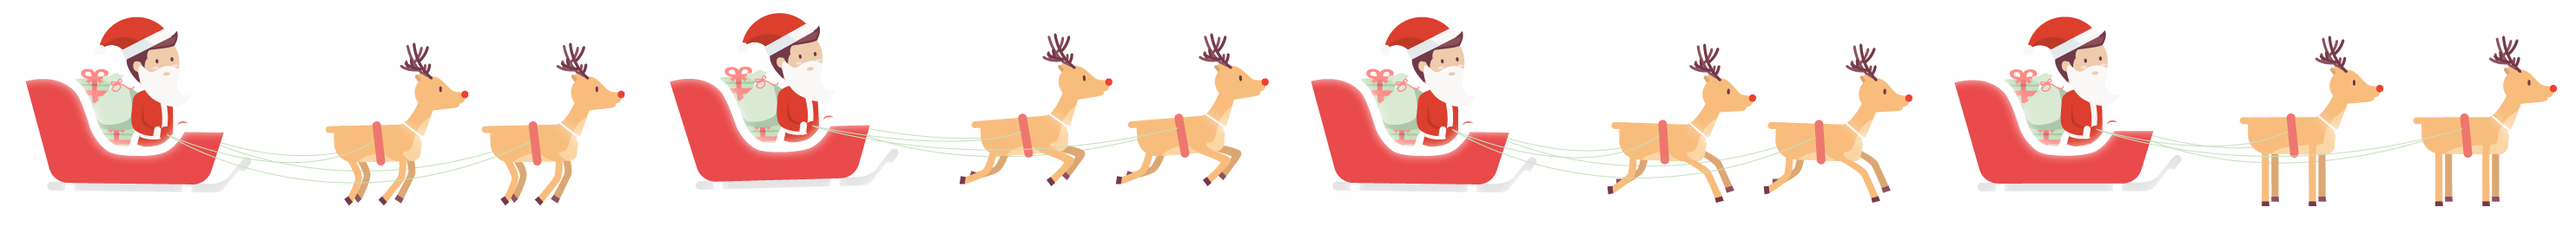
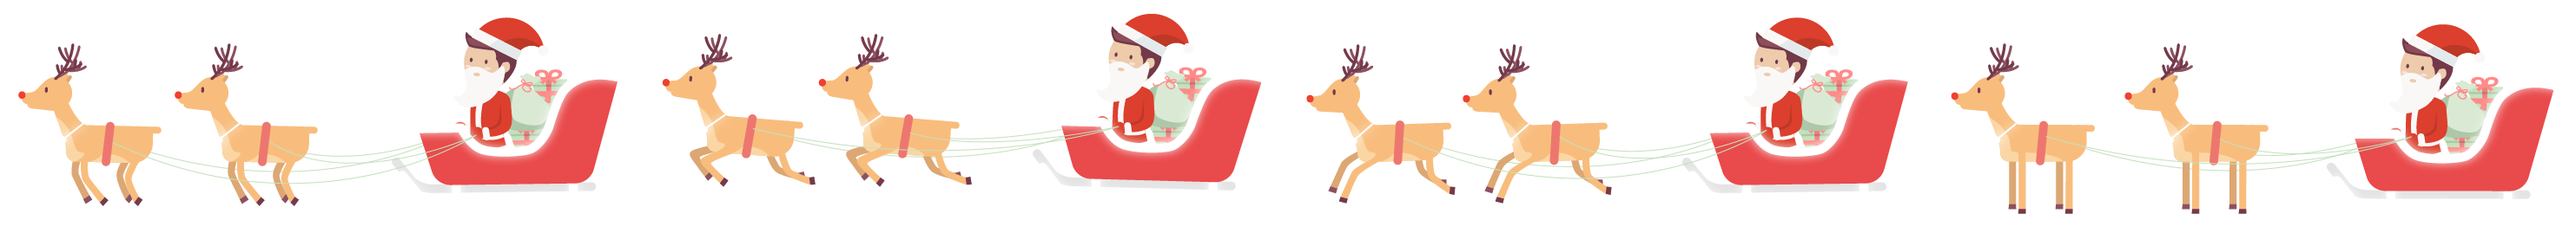
3d-》2d场景修正

diff --git a/christmas/release/js/pageA.js b/christmas/release/js/pageA.js
@@ -83,11 +83,11 @@ PageA.prototype.run = function(callback){
     }.bind(this)
 
     next({
-        "time": 2000,
+        "time": 1500,
         "style": {
-            "top"     : "1rem",
-            "left"    : "1rem",
-            "scale"   : "0.2"
+            "top"   : "1rem",
+            "right" : "1rem",
+            "scale" : "0.2"
         }
     })
     .done(function(){
@@ -95,82 +95,28 @@ PageA.prototype.run = function(callback){
     })
     .then(function() {
         return next({
-                "time": 3000,
+                "time": 6000,
                 "style": {
-                "top": "2rem",
-                "left": "5rem",
-                // "rotate3d" :"0.6,1,0.6,35deg",
-                "rotateY": "40deg",
-                "scale": "0.4"
+                "top": "4rem",
+                "right": "15rem",
+                "scale": "0.8"
             }
         })
     })
-    .then(function() {
-        //转角
-       return next({
-            "time": 500,
-            "style": {
-                "top"     :"2.2rem",
-                "left"    :"5.5rem",
-                "rotateY" : "60deg"
-            }
-        })
-    })
-    .then(function() {
-        return next({
-            "time": 500,
-            "style": {
-                "top"     :"2.5rem",
-                "left"    :"6rem",
-                "rotateY" : "80deg"
-            }
-        })
-    })
-    .then(function() {
-        return next({
-            "time": 500,
-            "style": {
-                "top"     :"2.8rem",
-                "left"    :"6rem",
-                "rotateY" : "100deg"
-            }
-        })
-    })
-    .then(function() {
-         //转角结束
-        return next({
-            "time": 500,
-            "style": {
-                "top"     :"3rem",
-                "left"    :"5.5rem",
-                "rotateY" : "120deg"
-            }
-        })
-    })
-    .then(function() {
-        return next({
-            "time": 6000,
-            "style": {
-                 "left"  :"-5rem",
-                 "top"   : "7.6rem",
-                 "scale" : "1.5"
-            }
-        })
-    })  
     .then(function() {
        return next({
-            // "time": 0,
             "style": {
-               "rotateY" : "0",
-               "scale" : "1.2"
+               "rotateY" : "-180"
             }
         })
     })    
     .then(function() {
         return next({
-            "time": 3000,
+            "time": 5000,
             "style": {
-                "left" : "8.5rem",
+                "top"   :"8rem",
+                "right" : "3.5rem",
+                "scale" : "1"
             }
         })
     }) 

diff --git a/christmas/release/css/pageA.css b/christmas/release/css/pageA.css
@@ -4,8 +4,6 @@
     background-image: url("../images/a/page-a-bg.png");
     position: absolute;
     z-index: 5;
-    /*perspective: 2000px;*/
-    /*transform-style: preserve-3d;*/
 }
 
 
@@ -47,12 +45,14 @@
     height: 1.5rem;
     position: absolute;
     z-index: 3;
-    left: -2rem;
+    right: -2rem;
     top: .5rem;
     transform: scale(0.1);
-    background: url("../images/a/boy-sleigh-car.png") -300% 100%;
+    background: url("../images/a/boy-sleigh-car.png") -300% -100%;
     background-size: 400% 100%;
 }
+
+
 
 
 /**

diff --git a/christmas/release/css/common.css b/christmas/release/css/common.css
@@ -16,10 +16,11 @@
  */
 .effect-out{
     -webkit-animation: effectOut 5s ease-in-out forwards;
+    -webkit-transform-origin:71% 72%;
 }
 @-webkit-keyframes effectOut{
     0% { opacity:1; }
-    100% { -webkit-transform: rotateZ(10deg) scale(10); opacity:0; }
+    100% { -webkit-transform: scale(20); opacity:0; }
 }
 
 section.effect-in{

diff --git a/christmas/release/index.html b/christmas/release/index.html
@@ -38,7 +38,7 @@
             <figure class="tree"></figure>
         
             <!-- 星星 -->
-            <svg viewBox="0 0 512 486">
+            <svg>
                 <defs>
                     <linearGradient id="star" x1="0%" y1="0%" x2="100%" y2="0%">
                         <stop offset="0%" stop-color="#FCF0BC"></stop>
